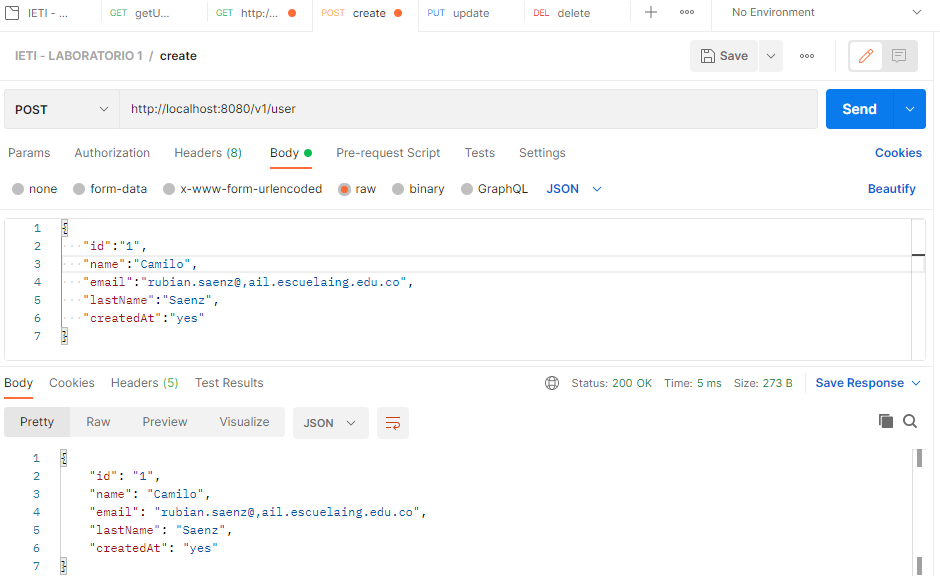
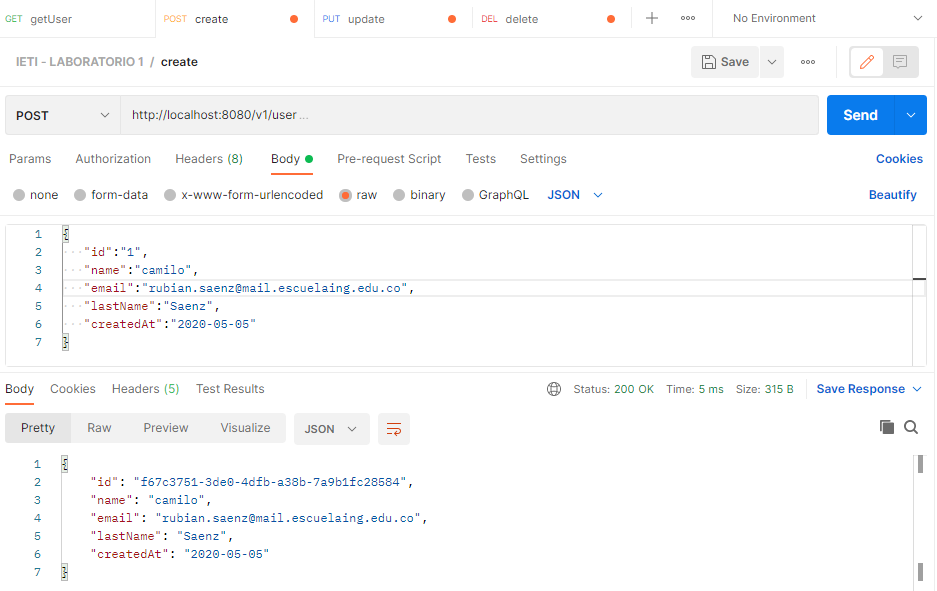
Update Postman

diff --git a/src/main/java/edu/eci/ieti/SpringBootRestAPI/controller/UserController.java b/src/main/java/edu/eci/ieti/SpringBootRestAPI/controller/UserController.java
@@ -1,12 +1,12 @@
 package edu.eci.ieti.SpringBootRestAPI.controller;
 
 import edu.eci.ieti.SpringBootRestAPI.data.User;
+import edu.eci.ieti.SpringBootRestAPI.dto.UserDto;
 import edu.eci.ieti.SpringBootRestAPI.service.UserService;
 import org.springframework.beans.factory.annotation.Autowired;
 import org.springframework.http.HttpStatus;
 import org.springframework.http.ResponseEntity;
 import org.springframework.web.bind.annotation.*;
-
 import java.util.List;
 
 @RestController
@@ -25,19 +25,25 @@ public class UserController {
     }
 
     @GetMapping( "/{id}" )
-    public ResponseEntity<User> findById( @PathVariable String id ) {
-        return ResponseEntity.status(HttpStatus.OK).body(userService.findById(id));
-    }
+    public ResponseEntity<User> findById( @PathVariable String id ) { return ResponseEntity.status(HttpStatus.OK).body(userService.findById(id)); }
 
-    // UserDTO¿?
     @PostMapping
-    public ResponseEntity<User> create( @RequestBody User user ) {
-        return ResponseEntity.status(HttpStatus.OK).body(userService.create(user));
+    public ResponseEntity<User> create( @RequestBody UserDto userDto ) {
+        try{
+            return ResponseEntity.status(HttpStatus.OK).body(userService.create(new User(userDto)));
+        }catch(Exception e){
+            return ResponseEntity.status(HttpStatus.INTERNAL_SERVER_ERROR.ordinal()).body(null);
+        }
     }
 
     @PutMapping( "/{id}" )
-    public ResponseEntity<User> update( @RequestBody User user, @PathVariable String id ) {
-        return ResponseEntity.status(HttpStatus.OK).body(userService.update(user, id));
+    public ResponseEntity<User> update( @RequestBody UserDto userDto, @PathVariable String id ) {
+        try{
+            return ResponseEntity.status(HttpStatus.OK).body(userService.update(new User(userDto, id), id));
+        }catch(Exception e){
+            userService.deleteById(id);
+            return ResponseEntity.status(HttpStatus.INTERNAL_SERVER_ERROR.ordinal()).body(null);
+        }
     }
 
     @DeleteMapping( "/{id}" )

diff --git a/src/main/java/edu/eci/ieti/SpringBootRestAPI/service/UserServiceHashMap.java b/src/main/java/edu/eci/ieti/SpringBootRestAPI/service/UserServiceHashMap.java
@@ -14,7 +14,11 @@ public class UserServiceHashMap implements UserService{
 
     @Override
     public User create(User user) {
-        return usersMap.put(user.getId(), user);
+        if (usersMap.containsKey(user.getId())) {
+            throw new RuntimeException("El Usuario ya Existe!");
+        }
+        usersMap.put(user.getId(), user);
+        return usersMap.get(user.getId());
     }
 
     @Override
@@ -30,11 +34,20 @@ public class UserServiceHashMap implements UserService{
 
     @Override
     public void deleteById(String id) {
-        usersMap.remove(id);
+        if(usersMap.containsKey(id)){
+            usersMap.remove(id);
+        }else{
+            throw new RuntimeException("El Usuario no Existe!");
+        }
     }
 
     @Override
     public User update(User user, String userId) {
-        return usersMap.put(userId, user);
+        if (!usersMap.containsKey(userId)) {
+            throw new RuntimeException("El Usuario no Existe!");
+        }
+        deleteById(userId);
+        return create(user);
     }
+
 }

diff --git a/src/main/java/edu/eci/ieti/SpringBootRestAPI/data/User.java b/src/main/java/edu/eci/ieti/SpringBootRestAPI/data/User.java
@@ -1,9 +1,10 @@
 package edu.eci.ieti.SpringBootRestAPI.data;
 
 import java.util.Date;
+import java.util.UUID;
 import com.fasterxml.jackson.annotation.JsonFormat;
 import com.fasterxml.jackson.annotation.JsonFormat.Shape;
-
+import edu.eci.ieti.SpringBootRestAPI.dto.UserDto;
 
 public class User {
 
@@ -20,6 +21,22 @@ public class User {
         this.email = email;
         this.lastName = lastName;
         this.createdAt = createdAt;
+    }
+
+    public User(UserDto userDto) {
+        this.id = UUID.randomUUID().toString();
+        this.name = userDto.getName();
+        this.email = userDto.getEmail();
+        this.lastName = userDto.getLastName();
+        this.createdAt = userDto.getCreatedAt();
+    }
+
+    public User(UserDto userDto, String id) {
+        this.id = id;
+        this.name = userDto.getName();
+        this.email = userDto.getEmail();
+        this.lastName = userDto.getLastName();
+        this.createdAt = userDto.getCreatedAt();
     }
 
     public String getId() {
